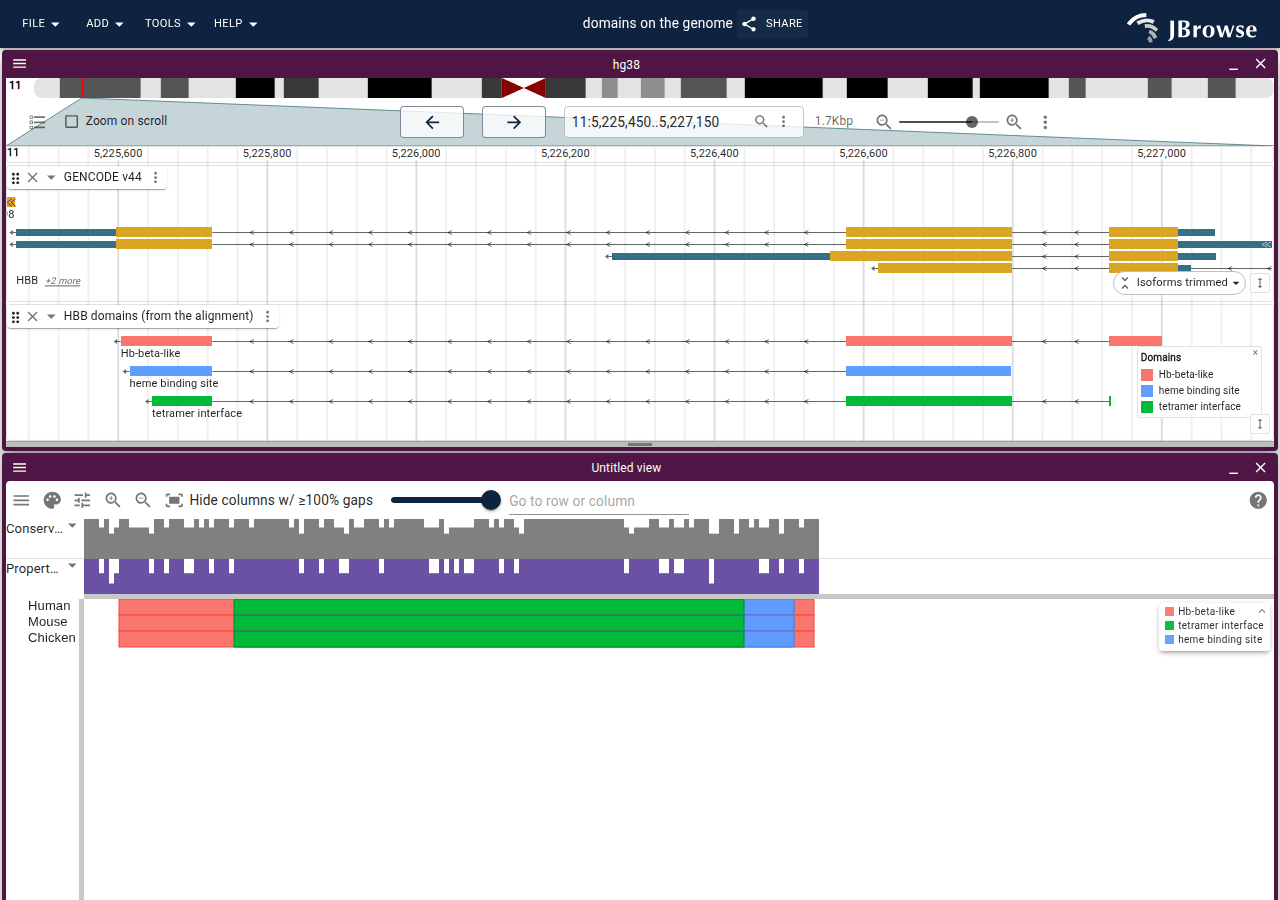
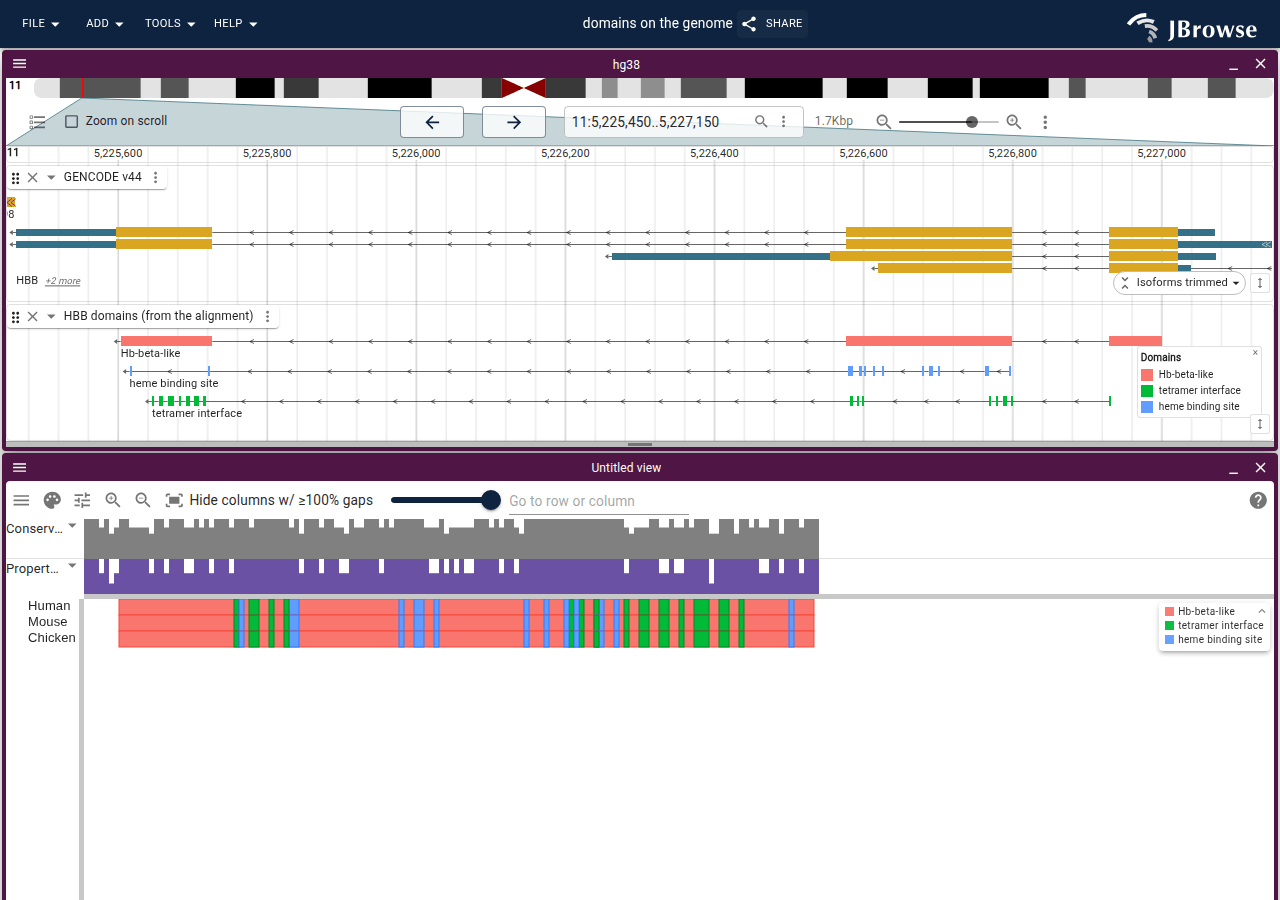
connectedDomains: one entry per accession, largest first
A CDD site now arrives as one annotation per run of residues, so the getter
gathers an accession's annotations into one entry, merges their regions, and
orders by residues covered. The genome track gets one heme binding site
feature with a subfeature per piece.

diff --git a/src/MsaViewPanel/connectedDomains.ts b/src/MsaViewPanel/connectedDomains.ts
@@ -4,7 +4,7 @@ import type { GenomeRegion, SeqPosModel } from './msaCoordToGenomeCoord'
 import type { Annotation } from 'react-msaview'
 
 /**
- * One domain the alignment draws on the query row, on the genome. A
+ * One accession the alignment draws on the query row, on the genome. A
  * cross-plugin contract: jbrowse-plugin-protein3d reads it off the view.
  */
 export interface ConnectedDomain {
@@ -15,7 +15,8 @@ export interface ConnectedDomain {
   color: string
   /**
    * 0-based half-open, ascending, contiguous bases merged: one region per exon
-   * piece, in the transcript's refName spelling
+   * piece of a domain, or per run of a site's scattered residues, in the
+   * transcript's refName spelling
    */
   regions: GenomeRegion[]
 }
@@ -42,45 +43,65 @@ function mergeAdjacent(regions: GenomeRegion[]) {
 }
 
 /**
- * The genome regions under residues `start`..`end` of the query row, 1-based
- * inclusive as react-msaview's annotations count them.
+ * The genome regions under the query row's residues `positions`, 0-based
+ * ungapped.
  */
 export function residuesToGenomeRegions(
   model: SeqPosModel,
-  { start, end }: { start: number; end: number },
+  positions: Iterable<number>,
 ) {
   const pieces: GenomeRegion[] = []
-  for (let pos = start - 1; pos < end; pos++) {
+  for (const pos of positions) {
     pieces.push(...seqPosToGenomeRegions(model, pos))
   }
   return mergeAdjacent(pieces)
 }
 
 /**
- * The query row's domains as the alignment shows them, longest first as
- * react-msaview draws them, so a nested site painted later lands on top.
- * Empty while the domain overlay is off.
+ * The query row's domains as the alignment shows them, one per accession, so
+ * a CDD site's scattered residues are one entry. Largest first by residues
+ * covered, so a site painted later lands on the domain it sits in. Empty
+ * while the domain overlay is off.
  */
 export function connectedDomains(model: DomainSource): ConnectedDomain[] {
   if (!model.showDomains) {
     return []
   }
-  return (model.annotationsByRow[model.querySeqName] ?? [])
-    .toSorted((a, b) => b.end - b.start - (a.end - a.start))
-    .flatMap(annotation => {
-      const color = model.featureColors.get(annotation)?.fill
-      const regions = residuesToGenomeRegions(model, annotation)
+  const byAccession = new Map<string, Annotation[]>()
+  for (const annotation of model.annotationsByRow[model.querySeqName] ?? []) {
+    const list = byAccession.get(annotation.accession)
+    if (list) {
+      list.push(annotation)
+    } else {
+      byAccession.set(annotation.accession, [annotation])
+    }
+  }
+  return [...byAccession]
+    .flatMap(([accession, annotations]) => {
+      // annotations count residues 1-based inclusive
+      const positions = new Set<number>()
+      for (const { start, end } of annotations) {
+        for (let pos = start - 1; pos < end; pos++) {
+          positions.add(pos)
+        }
+      }
+      const first = annotations[0]!
+      const color = model.featureColors.get(first)?.fill
+      const regions = residuesToGenomeRegions(model, positions)
       return color && regions.length > 0
         ? [
             {
-              name:
-                model.annotationTypes.get(annotation.accession)?.name ??
-                annotation.name,
-              accession: annotation.accession,
-              color,
-              regions,
+              domain: {
+                name: model.annotationTypes.get(accession)?.name ?? first.name,
+                accession,
+                color,
+                regions,
+              },
+              residues: positions.size,
             },
           ]
         : []
     })
+    .toSorted((a, b) => b.residues - a.residues)
+    .map(({ domain }) => domain)
 }

diff --git a/src/MsaViewPanel/connectedDomains.test.ts b/src/MsaViewPanel/connectedDomains.test.ts
@@ -86,6 +86,28 @@ describe('connectedDomains on a reverse-strand transcript', () => {
     ])
   })
 
+  test('a scattered site is one entry, its residues merged where they touch', () => {
+    const domains = connectedDomains(
+      source([
+        annotation('small', 4, 5),
+        annotation('heme', 1, 1),
+        annotation('heme', 3, 3),
+        annotation('heme', 4, 4),
+      ]),
+    )
+    expect(domains.map(d => d.accession)).toEqual(['heme', 'small'])
+    expect(domains[0]).toEqual({
+      name: 'legend heme',
+      accession: 'heme',
+      color: 'fill-heme',
+      regions: [
+        { refName: 'chr1', start: 103, end: 107 },
+        { refName: 'chr1', start: 200, end: 202 },
+        { refName: 'chr1', start: 205, end: 208 },
+      ],
+    })
+  })
+
   test('a trimmed query row shifts by querySeqOffset', () => {
     const [domain] = connectedDomains(
       source([annotation('site', 1, 2)], { querySeqOffset: 1 }),

diff --git a/docs/linked-views.md b/docs/linked-views.md
@@ -79,25 +79,27 @@ The two plugins talk through the genome view both are connected to, matched by
 ## Domains: `connectedDomains`
 
 `connectedDomains` lists the domains the alignment draws on the query row
-(`querySeqName`), one entry per annotation:
+(`querySeqName`), one entry per accession:
 
 ```ts
 interface ConnectedDomain {
   name: string // the label the alignment's legend shows for the accession
   accession: string
-  color: string // react-msaview's featureColors.get(annotation).fill
+  color: string // react-msaview's featureColors fill for the accession
   regions: { refName: string; start: number; end: number }[]
 }
 ```
 
 - Empty while the domain overlay is off, and without any type unticked in the
   legend
-- Longest first, the order react-msaview draws in, so a consumer painting in
-  order puts a nested site over the domain it sits in
-- Annotations sharing an accession stay separate entries and share a color
-- `regions` are 0-based half-open and ascending, with contiguous bases merged,
-  so a domain spanning an intron gives one region per exon piece. The refName is
-  spelled as the transcript spells it, as in `connectedHoverHighlights`
+- One entry gathers every annotation of an accession, so a CDD site, which
+  arrives as one annotation per run of residues, lists once
+- Largest first by residues covered, so a consumer painting in order puts a site
+  over the domain it sits in
+- `regions` are 0-based half-open and ascending, with contiguous bases merged
+  into one region per exon piece of a domain, or per run of a site's residues.
+  The refName is spelled as the transcript spells it, as in
+  `connectedHoverHighlights`
 - Annotation `start`/`end` count the query row's ungapped residues, 1-based
   inclusive. Residue `i` maps through `querySeqOffset` and `p2gCodon`, or one
   base per residue on a MAF view; residues past the transcript drop out, and so
@@ -109,8 +111,9 @@ The view menu's **Show domains on the genome** adds `connectedDomains` to the
 connected genome view as a session `FeatureTrack` and shows it there. The menu
 offers it once the view is connected and the query row has domains.
 
-- `FromConfigAdapter` holds one feature per domain, with one subfeature per
-  region, so a domain spanning exons draws as boxes joined across the intron
+- `FromConfigAdapter` holds one feature per entry, with one subfeature per
+  region, so a domain spanning exons, or a site's scattered residues, draw as
+  boxes joined by a line
 - Each feature has a `color` field, and the display colors by it, with a key
   naming each color after its domain
 - The trackId is `msaview-domains-<view id>`, so running it again replaces the
